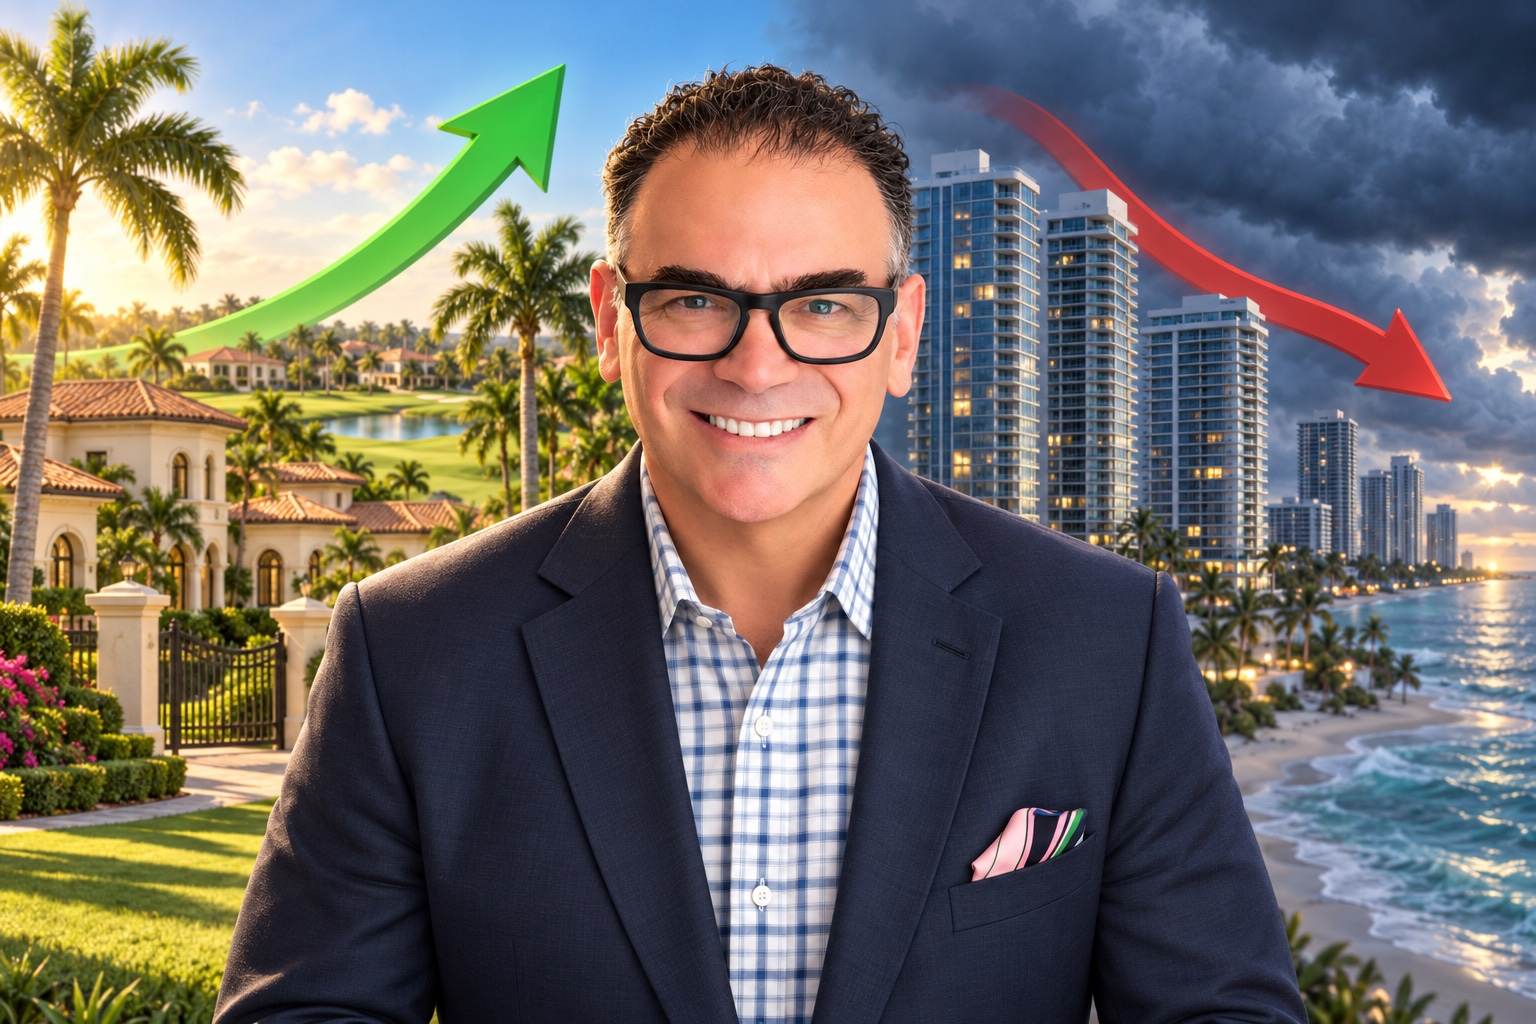
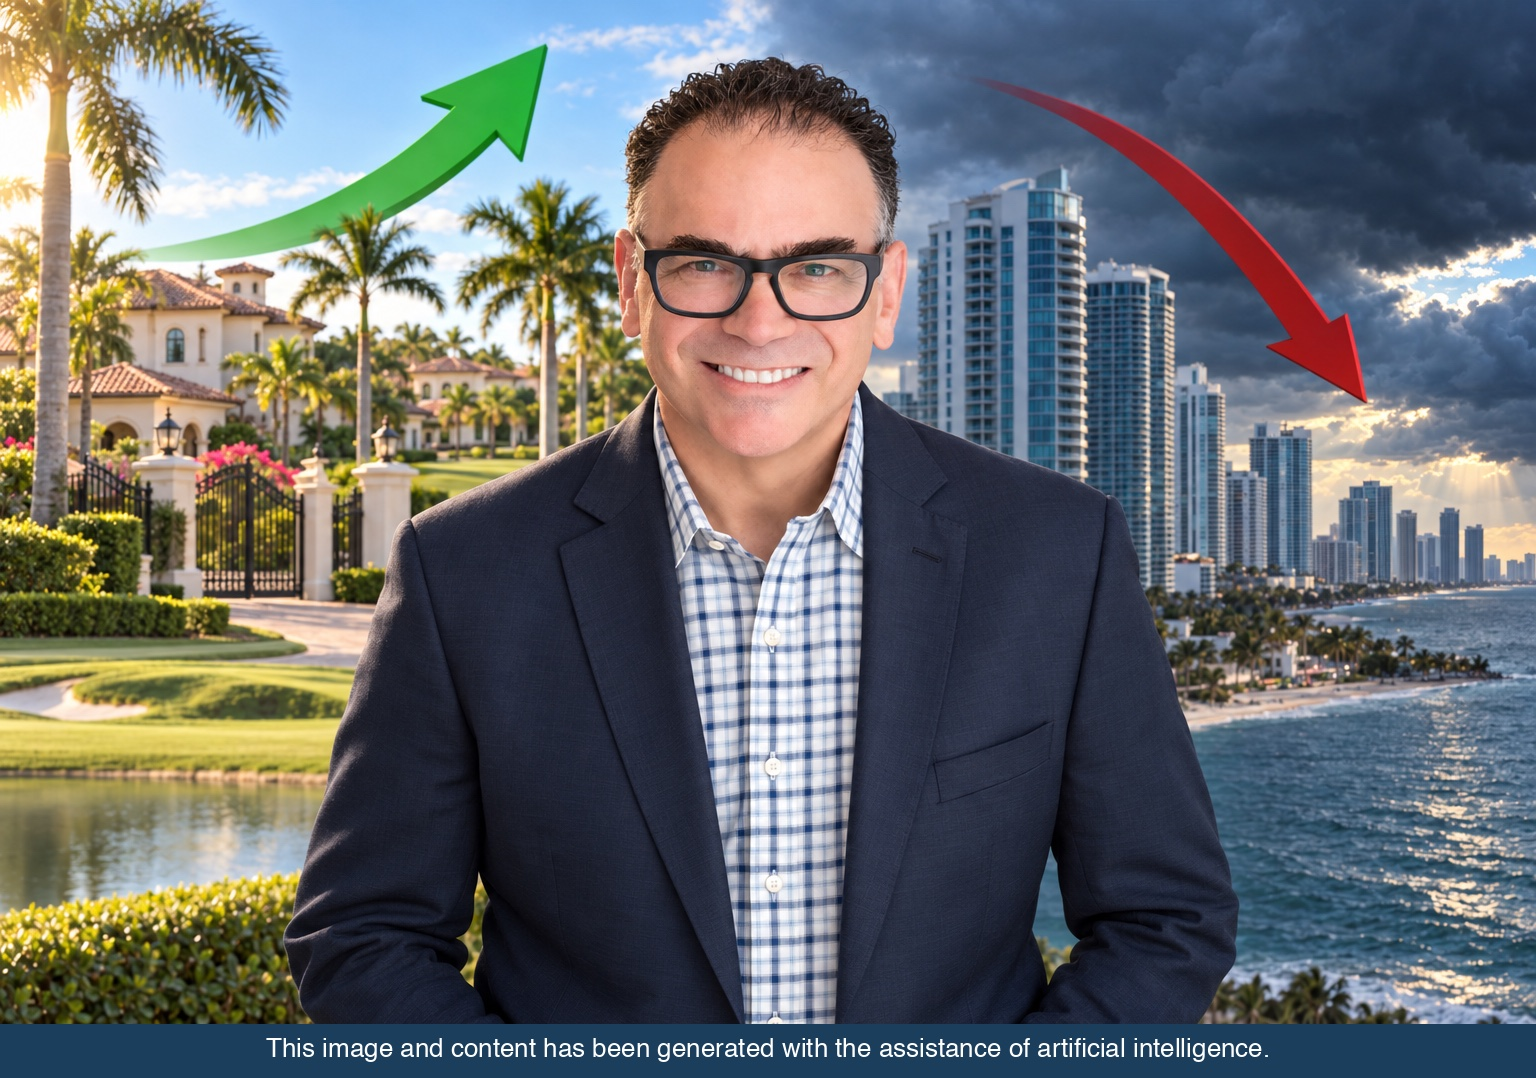
Hero v3: Codex photoreal likeness + baked-in AI disclosure bar; drop redundant email disclosure row

diff --git a/2026-10-03-email.html b/2026-10-03-email.html
@@ -20,10 +20,6 @@
 <tr><td style="padding:0;">
 <a href="https://edmundbogen.github.io/luxury-community-dashboard/will-values-keep-rising.html"><img src="https://edmundbogen.github.io/luxury-community-dashboard/will-values-hero.jpg" alt="Illustrated Edmund Bogen centered between a sunny luxury-home market with a rising green arrow and a cloudy condo market with a falling red arrow" width="600" style="display:block;width:100%;max-width:600px;height:auto;border:0;"></a>
 </td></tr>
-<!-- AI DISCLOSURE -->
-<tr><td style="background:#f4f4f4;padding:10px 30px;text-align:center;">
-<div style="font-size:12px;color:#555555;font-style:italic;">This image and portions of this email were created with the assistance of artificial intelligence.</div>
-</td></tr>
 <tr><td style="padding:24px 30px 8px 30px;">
 <div style="font-size:11px;letter-spacing:0.15em;color:#00a8e1;font-weight:600;">FEATURED ARTICLE</div>
 <h1 style="margin:8px 0 10px 0;font-size:26px;line-height:1.25;font-weight:300;color:#000000;">Will Values Keep Climbing?</h1>
